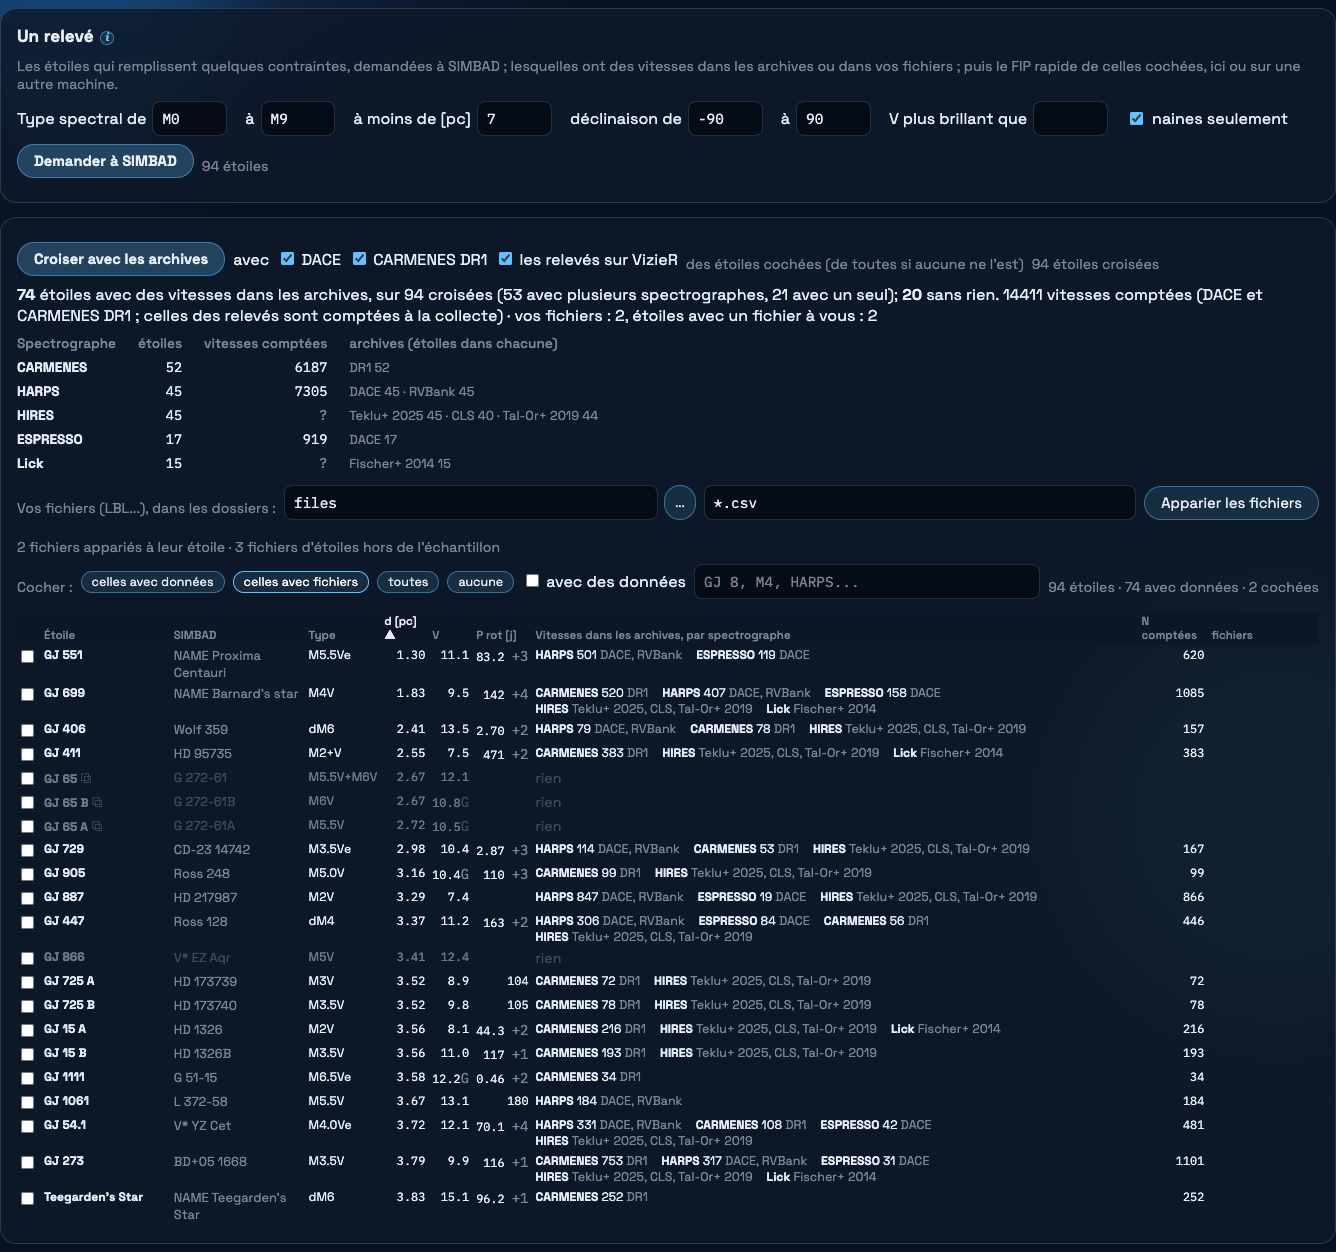
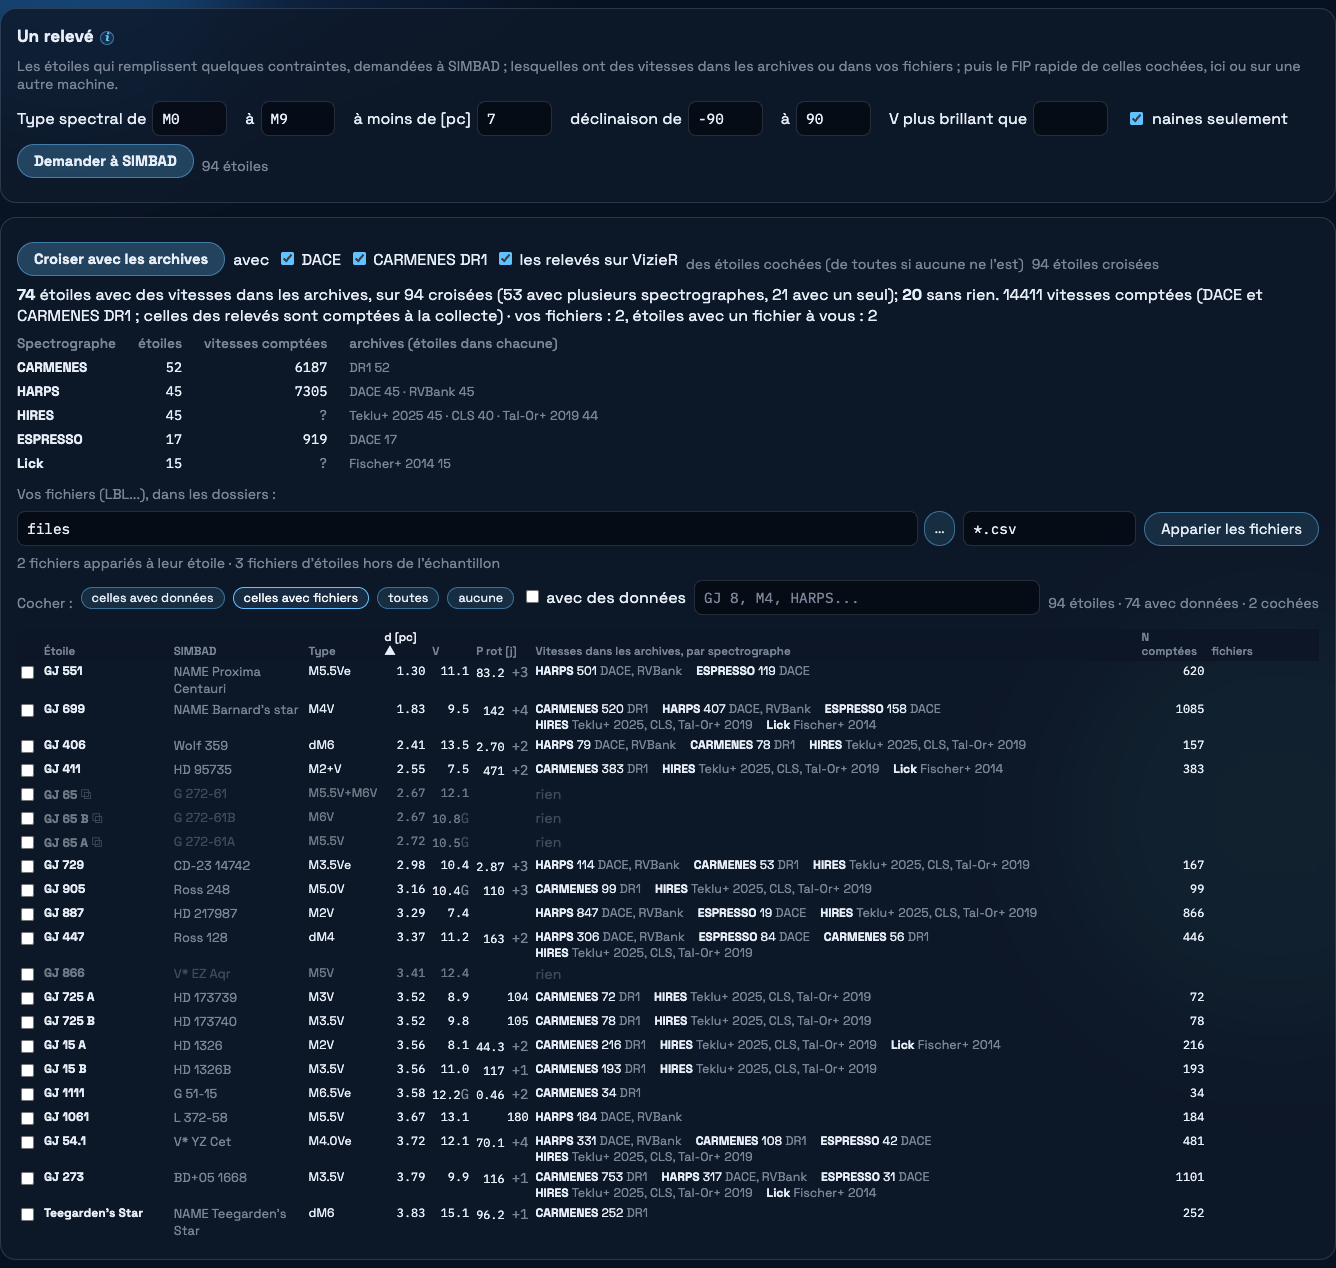
The folders of your files have a line of their own in the survey tab
Their box is under its label and takes the width of the page; the
message of what was matched is under it, so that a long one no longer
squeezes the box.

diff --git a/koloa/gui_static/index.html b/koloa/gui_static/index.html
@@ -259,12 +259,13 @@
         <span class="hint" id="sv-checkstatus"></span>
       </div>
       <div id="sv-overview"></div>
-      <div class="row">
-        <span class="hint" data-i18n="sv_folders">Your files (LBL...), in the folders:</span>
+      <p class="hint svlabel" data-i18n="sv_folders">Your files (LBL...), in the folders:</p>
+      <div class="row svfiles">
         <span class="picker"><input id="sv-folders" type="text" autocomplete="off" class="wide" placeholder="/data/nirps/lbl, /data/spirou/lbl"><button type="button" data-pick="folder" data-into="sv-folders">...</button></span>
         <input id="sv-pattern" type="text" value="*.rdb" autocomplete="off" class="pattern">
-        <button type="button" id="sv-match" data-i18n="sv_match">Match the files</button><span class="hint" id="sv-matchstatus"></span>
+        <button type="button" id="sv-match" data-i18n="sv_match">Match the files</button>
       </div>
+      <p class="hint" id="sv-matchstatus"></p>
       <div class="row">
         <span class="hint" data-i18n="sv_tick">Tick:</span>
         <button type="button" class="small" id="sv-tickdata" data-i18n="sv_tick_data">those with data</button>

diff --git a/koloa/gui_static/gui.css b/koloa/gui_static/gui.css
@@ -103,7 +103,16 @@ a.replink { font-size: 0.78rem; white-space: nowrap; }
 #sv-packstatus p { margin: 3px 0; }
 #sv-packstatus p.svpacked { font-size: 0.92rem; }
 #sv-packstatus .sel { user-select: all; overflow-wrap: anywhere; }
-#sv-folders { width: 26em; max-width: 100%; }
+/* the folders of your files: under their label, on a line of their own; their box takes the width of the
+   page and is never squeezed (the pattern beside it keeps its size, what was matched is said under them) */
+.svlabel { margin: 10px 0 2px; }
+#sv-card .svfiles { flex-wrap: nowrap; }
+#sv-card .svfiles .picker { flex: 1 1 auto; display: flex; min-width: 22em; }
+#sv-card .svfiles #sv-folders { flex: 1 1 auto; width: auto; min-width: 18em; }
+#sv-card .svfiles #sv-pattern { flex: 0 0 12em; width: 12em; }
+#sv-card .svfiles #sv-match { flex: 0 0 auto; white-space: nowrap; }
+#sv-matchstatus { margin: 2px 0 8px; }
+#sv-matchstatus:empty { display: none; }
 .svwrap { max-height: 62vh; overflow: auto; }
 .svwrap tr.nodata td { opacity: 0.45; }
 .svwrap tr.nodata td:first-child { opacity: 1; }
